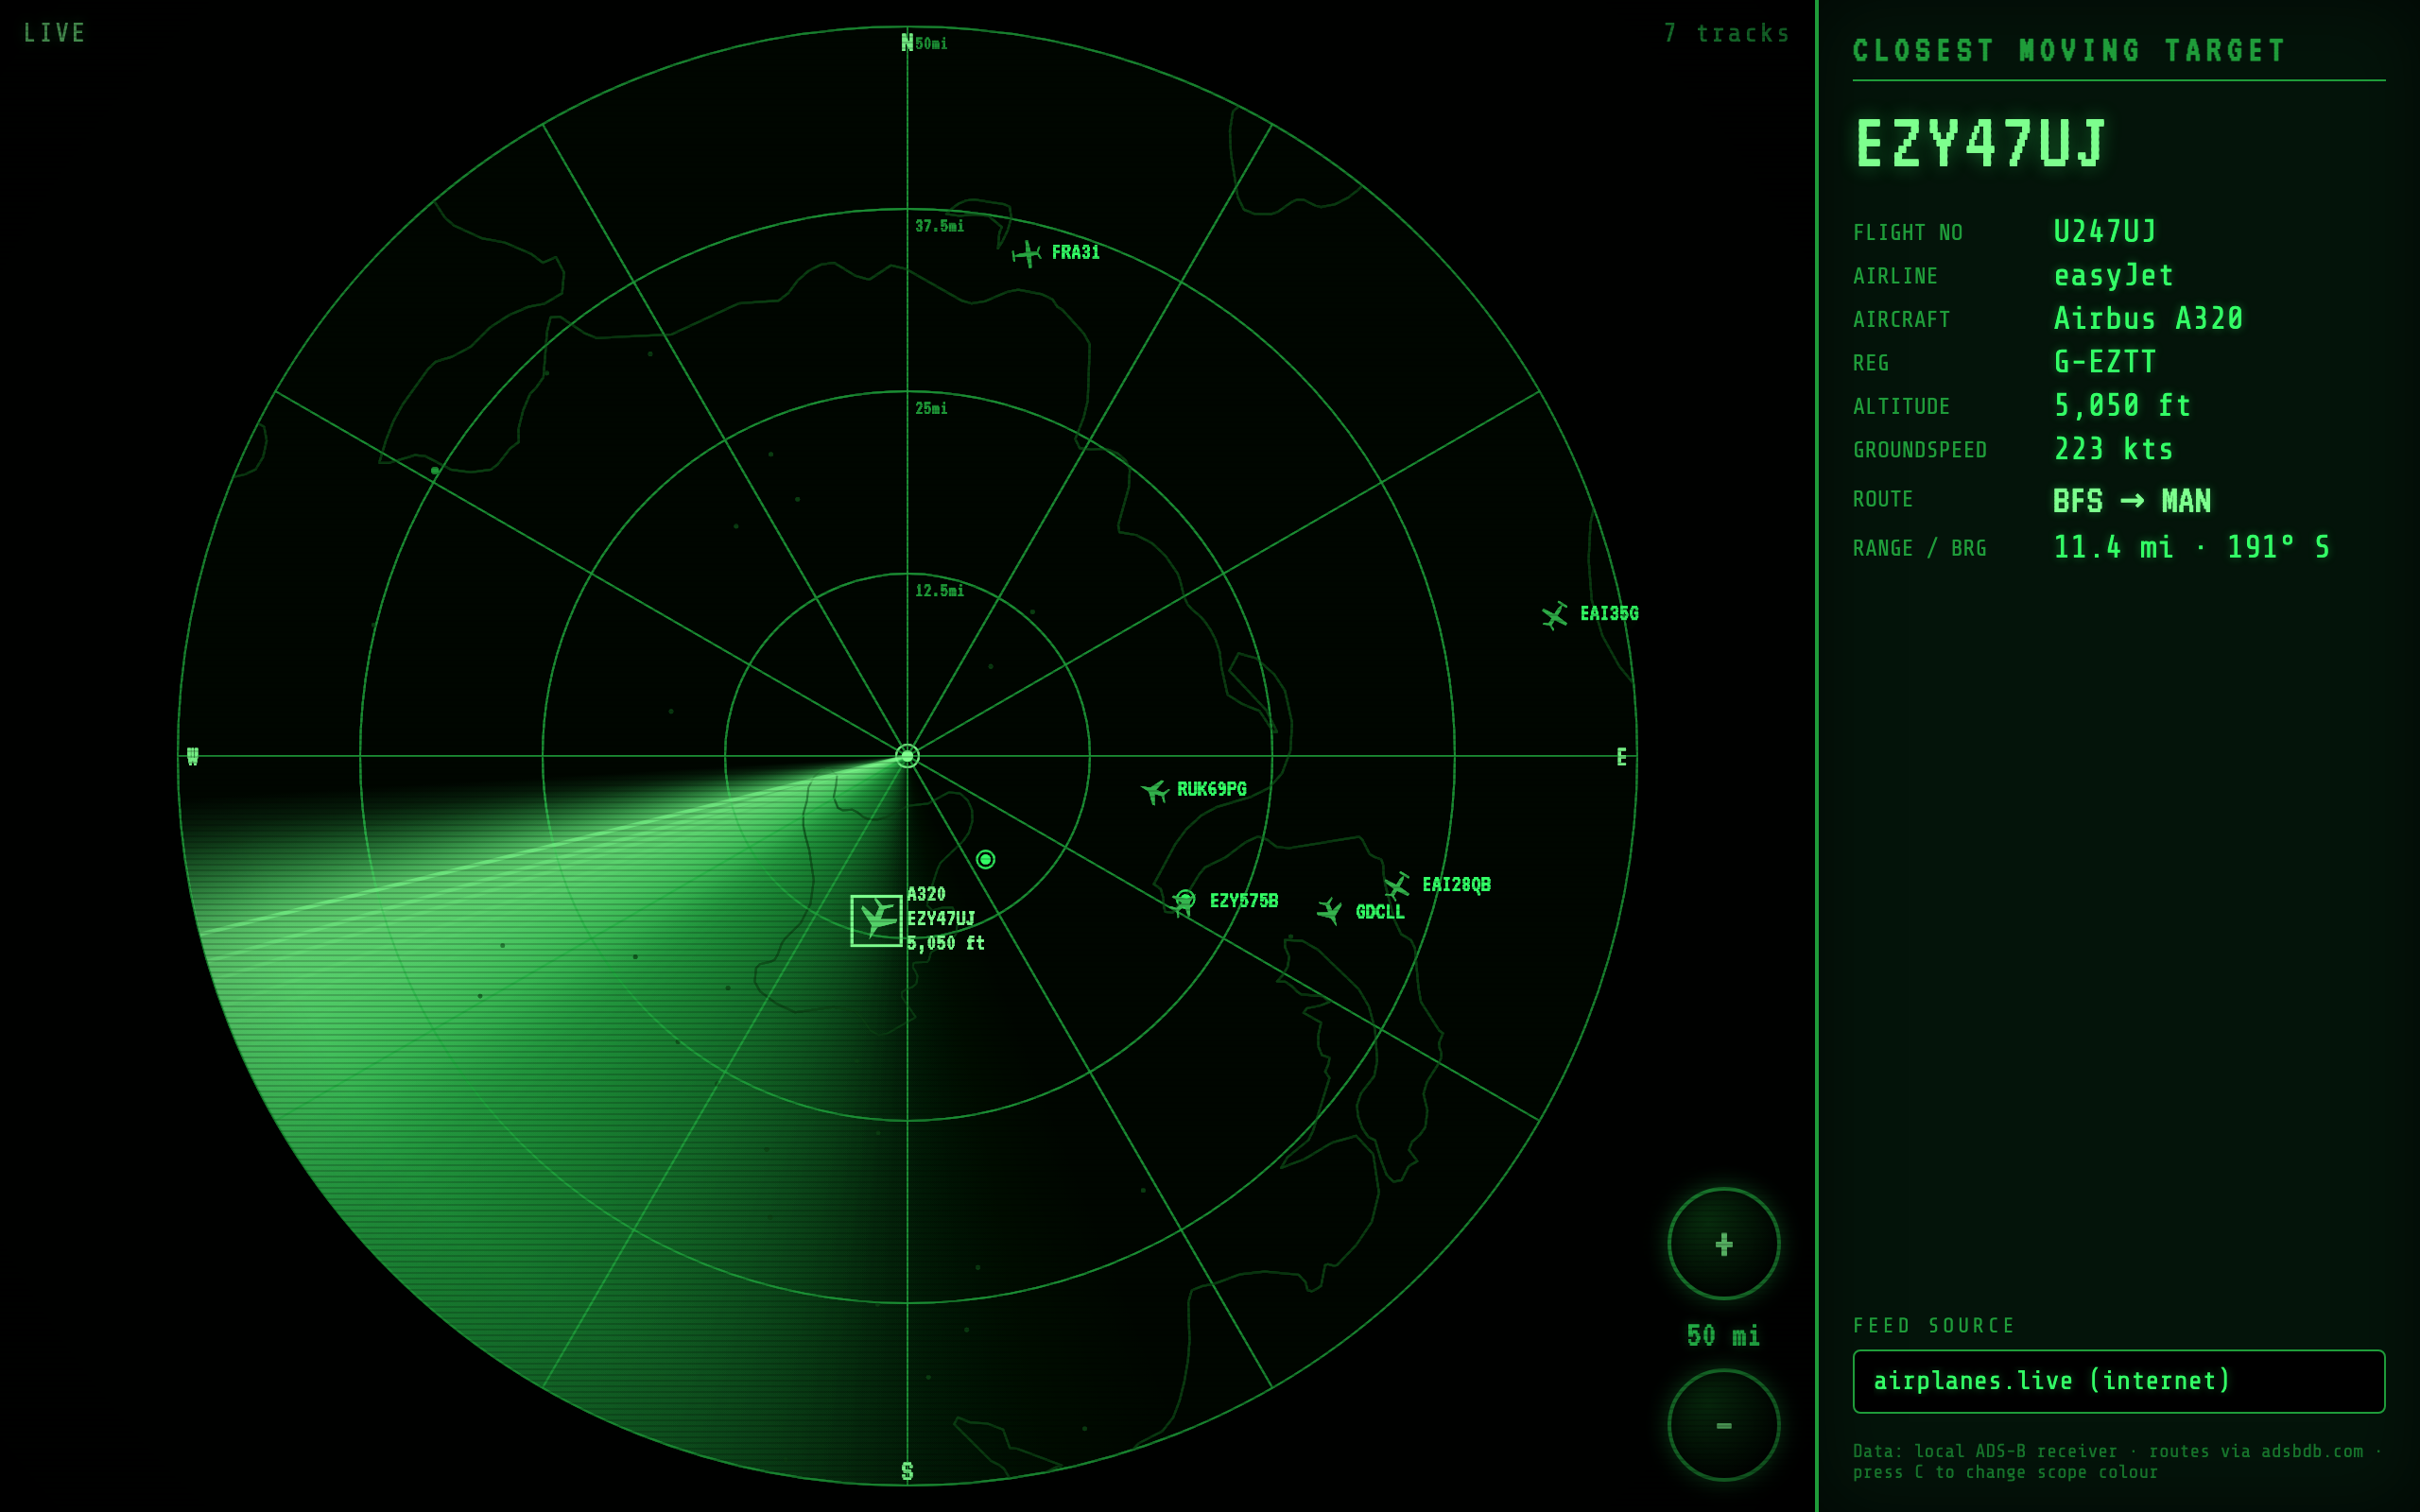
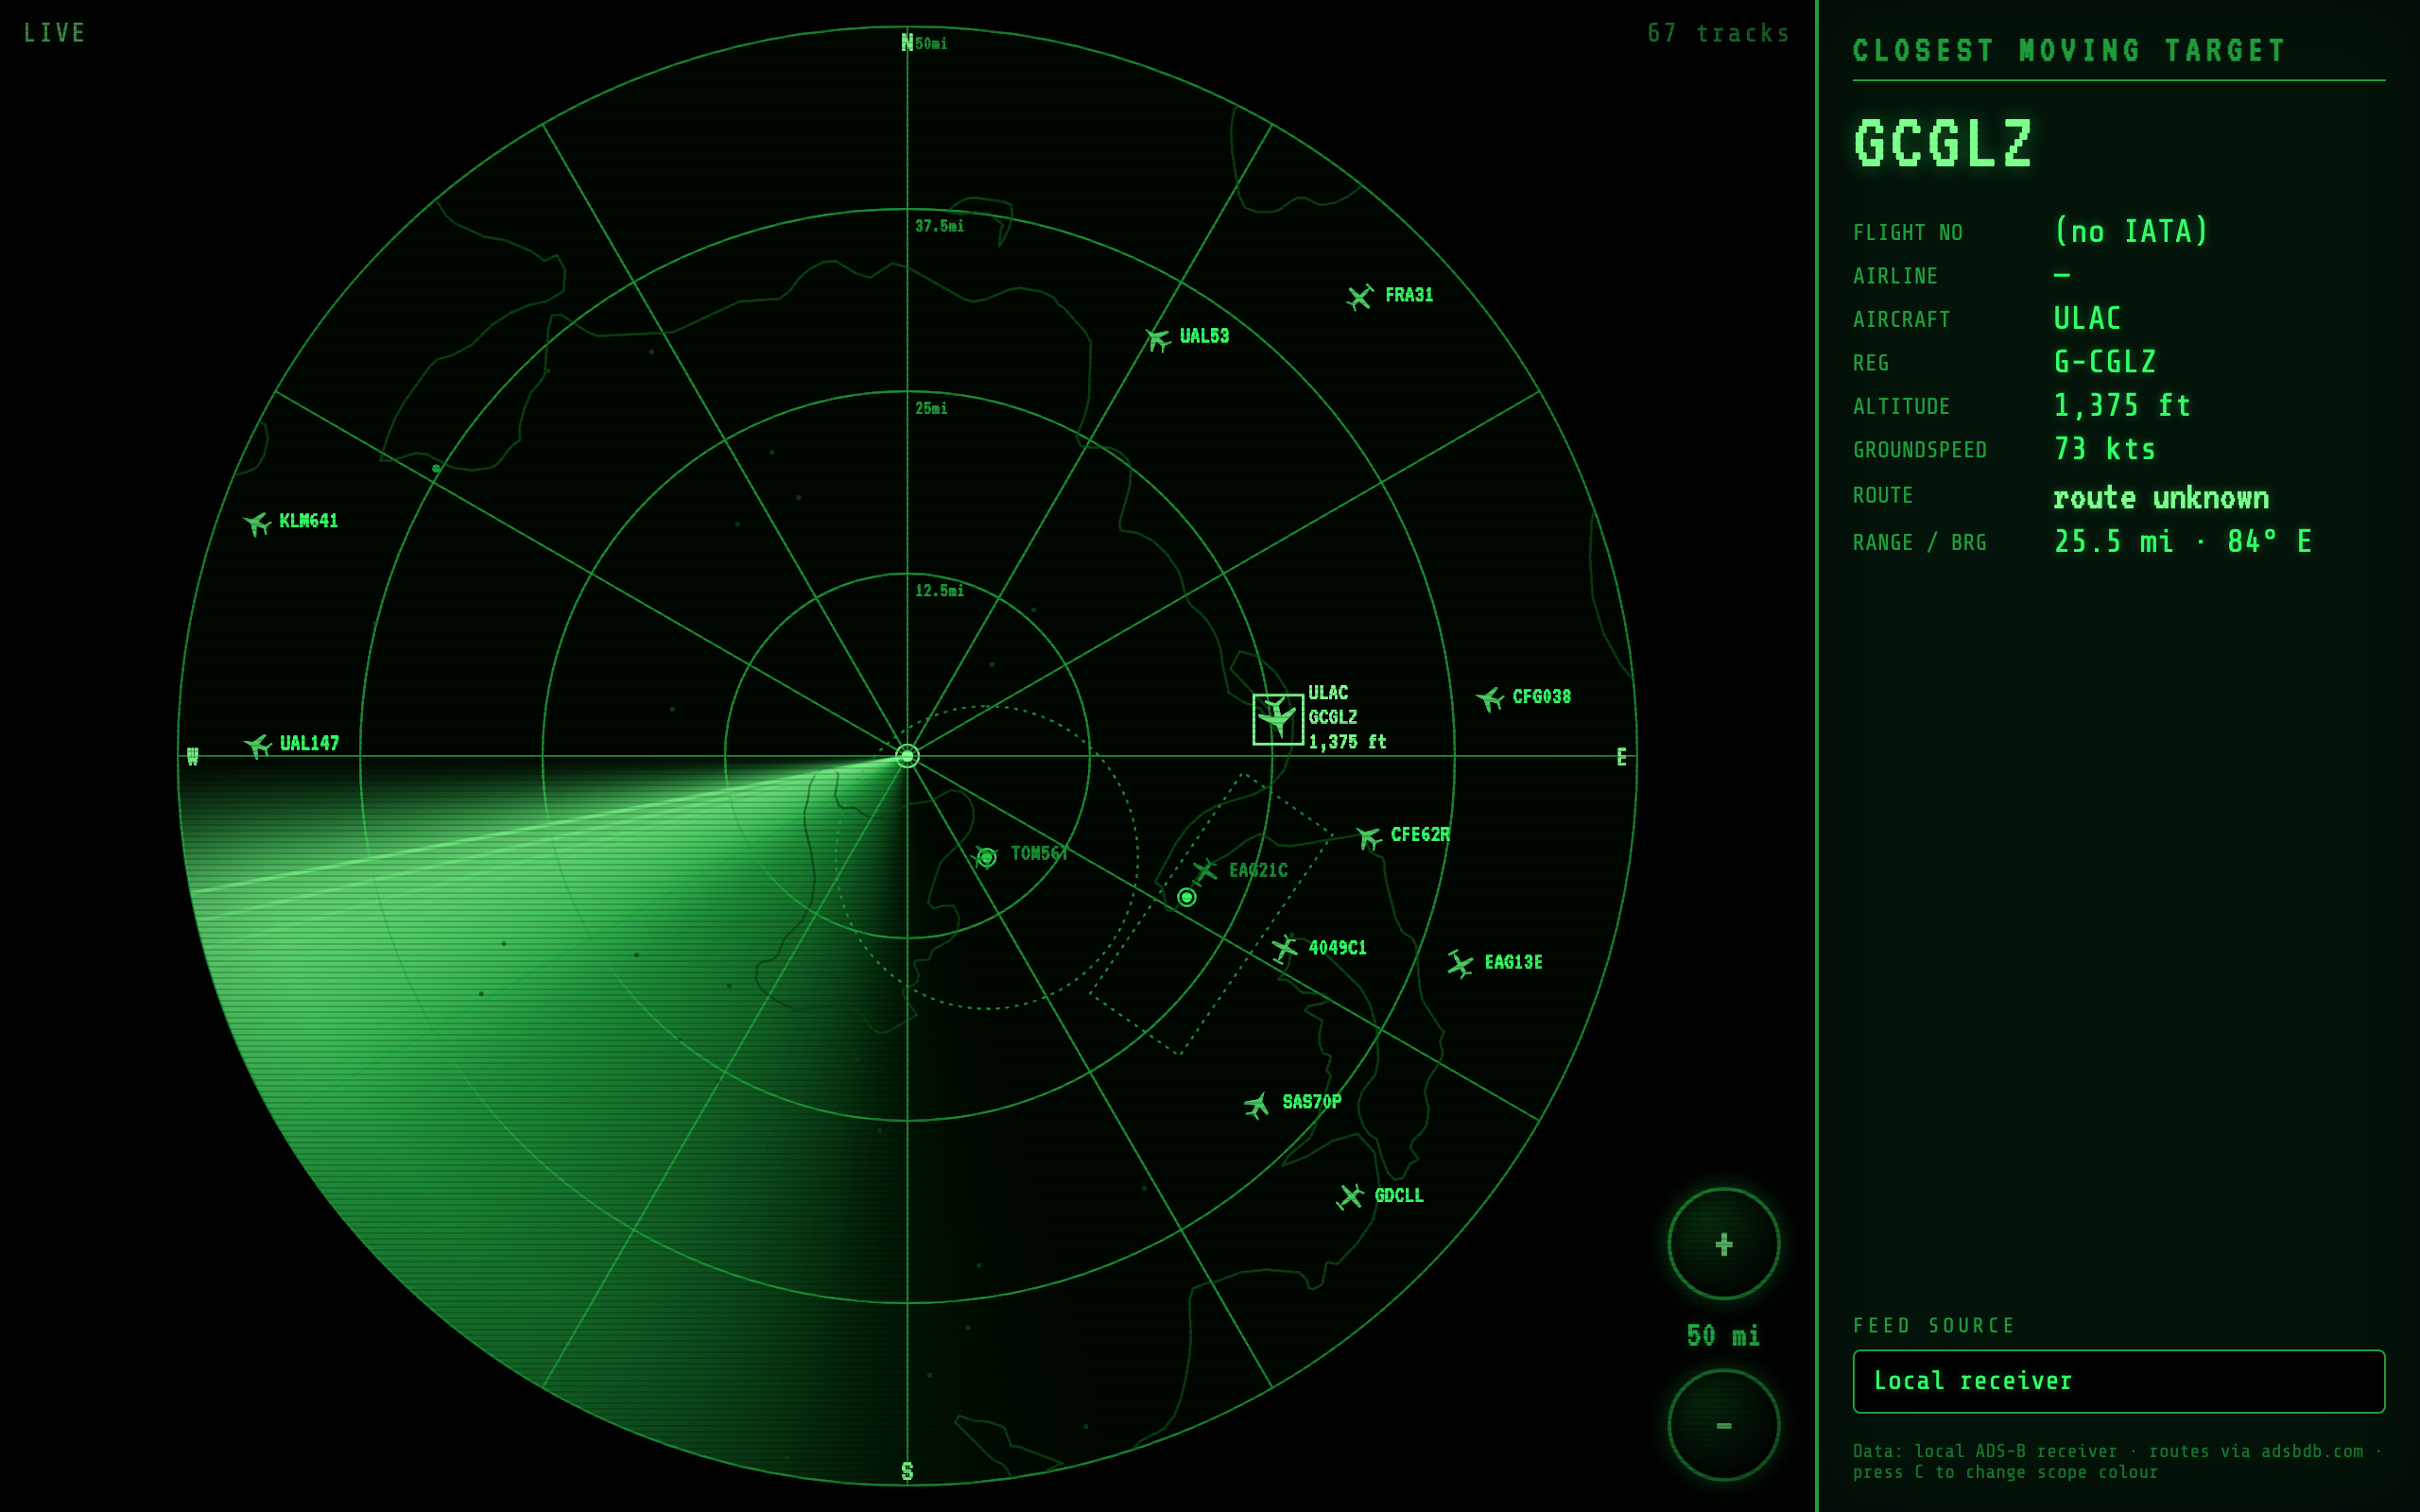
Add UK control zones as dotted outlines on the scope
Render the 26 UK Control Zones (CTR) as faint dotted boundary rings,
distinct from the solid coastline. Boundaries are sourced from the UK
AIP via the YAIXM dataset (github.com/ahsparrow/airspace) and tessellated
(line/arc/circle primitives) into closed [lon,lat] rings in the bundled
controlzones.geojson. Loaded via loadCtr() and drawn in the cached
offscreen coast layer with setLineDash. Refreshed docs-preview.png and
documented the new layer/source in README.

diff --git a/radar.js b/radar.js
@@ -116,6 +116,7 @@ const state = {
   lastPollTry: 0,
   pollError: null,
   coast: null,             // {coast:[[ [lon,lat],.. ]], lake:[...] }
+  ctr: null,               // UK control zones: [[ [lon,lat],.. ]] closed rings
   airports: null,          // [{name,code,lat,lon,cls}] cls 2=large 1=medium 0=airfield
 };
 if (!FEEDS[state.feedId]) state.feedId = DEFAULT_FEED;
@@ -609,6 +610,23 @@ function renderCoastOffscreen() {
   c.beginPath(); c.arc(CX, CY, R, 0, Math.PI * 2); c.clip();
   drawSet(state.coast.coast || [], 0.85, 1.1);
   drawSet(state.coast.lake || [], 0.7, 1.0);
+  // UK control zones: faint dotted outlines (CTR boundaries)
+  if (state.ctr && state.ctr.length) {
+    c.save();
+    c.strokeStyle = col.mid; c.globalAlpha = 0.55; c.lineWidth = 1;
+    c.lineJoin = "round"; c.lineCap = "round";
+    c.setLineDash([1, 4]);
+    for (const ring of state.ctr) {
+      c.beginPath();
+      for (let i = 0; i < ring.length; i++) {
+        const m = toMiles(ring[i][1], ring[i][0]);
+        const p = milesToPx(m.east, m.north);
+        if (i === 0) c.moveTo(p.x, p.y); else c.lineTo(p.x, p.y);
+      }
+      c.stroke();
+    }
+    c.restore();
+  }
   // airports & airfields as dots (larger/brighter for bigger airports)
   for (const a of state.airports || []) {
     const m = toMiles(a.lat, a.lon);
@@ -1181,6 +1199,22 @@ async function loadCoast() {
   } catch (e) { /* coastline optional */ }
 }
 
+// UK control zones (CTR boundaries) as closed [lon,lat] rings, drawn dotted.
+async function loadCtr() {
+  try {
+    const r = await fetchWithTimeout("controlzones.geojson", { cache: "force-cache" });
+    const j = await r.json();
+    let segs = [];
+    for (const f of j.features || []) {
+      if (f.properties && f.properties.kind === "ctr") {
+        segs = (f.geometry && f.geometry.coordinates) || [];
+      }
+    }
+    state.ctr = segs;
+    coastKey = "";   // fold into the cached coast layer on next render
+  } catch (e) { /* control zones optional */ }
+}
+
 async function loadAirports() {
   try {
     const r = await fetchWithTimeout("airports.json", { cache: "force-cache" });
@@ -1199,6 +1233,7 @@ async function main() {
   // blank frozen screen on a kiosk that boots before the network is up.
   requestAnimationFrame(frame);
   loadCoast();
+  loadCtr();
   loadAirports();
   loadFriendlyTypes();
   await loadReceiver();   // best-effort scope centre (times out, won't hang boot)

diff --git a/README.md b/README.md
@@ -27,9 +27,10 @@ Features:
 | Receiver location | `<device>/data/receiver.json` |
 | Aircraft type & registration | `<device>/db/…` (local SkyAware database) |
 | Friendly aircraft names (e.g. `B789` → Boeing 787-9 Dreamliner) | `aircraft_types.json` (bundled ICAO Doc 8643 table) |
+| UK control zones (dotted outlines) | `controlzones.geojson` (bundled CTR boundaries) |
 | Flight number, airline, dep/arr airports | `https://api.adsbdb.com` (public, CORS‑enabled) |
 
-The radar page is **static** (`index.html`, `radar.css`, `radar.js`, `coastline.geojson`, `airports.json`, `aircraft_types.json`).
+The radar page is **static** (`index.html`, `radar.css`, `radar.js`, `coastline.geojson`, `controlzones.geojson`, `airports.json`, `aircraft_types.json`).
 The only wrinkle is CORS: by default the ADS‑B device does **not** send an
 `Access-Control-Allow-Origin` header, so a browser on another origin can't read its JSON.
 There are two ways to solve that — pick **one**:
@@ -281,6 +282,8 @@ Now `index.html` can be opened from any static host (including the device itself
   clipped to the British Isles region in `coastline.geojson`.
 - Airports & airfields: [OurAirports](https://ourairports.com/data/) (public domain),
   filtered to within range of the receiver in `airports.json`.
+- UK control zones: CTR boundaries from the UK AIP via the [YAIXM dataset](https://github.com/ahsparrow/airspace)
+  (Alan Sparrow), tessellated to closed rings in `controlzones.geojson` and drawn as dotted outlines.
 - Aircraft type names: ICAO Doc 8643 designators, condensed to one friendly
   name per type in `aircraft_types.json` (e.g. `B789` → "Boeing 787-9 Dreamliner",
   `C17` → "Boeing C-17 Globemaster III").